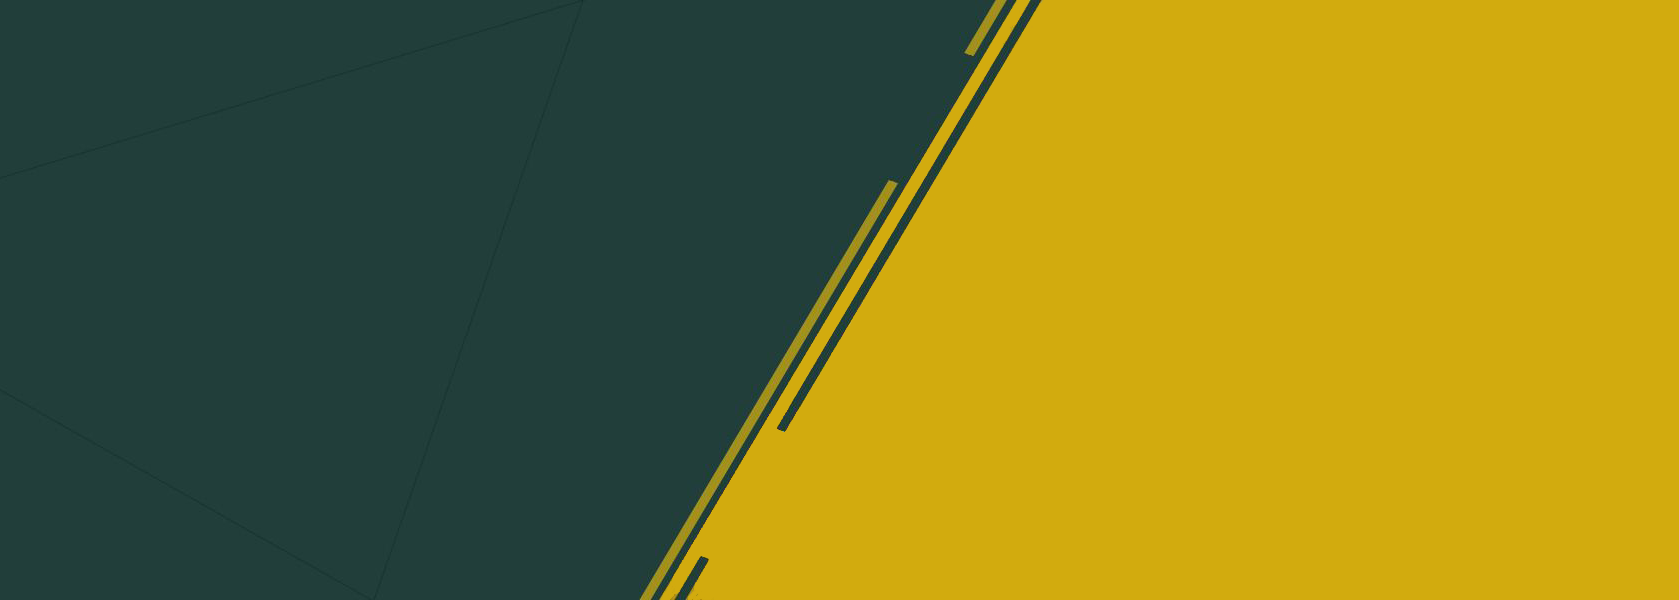
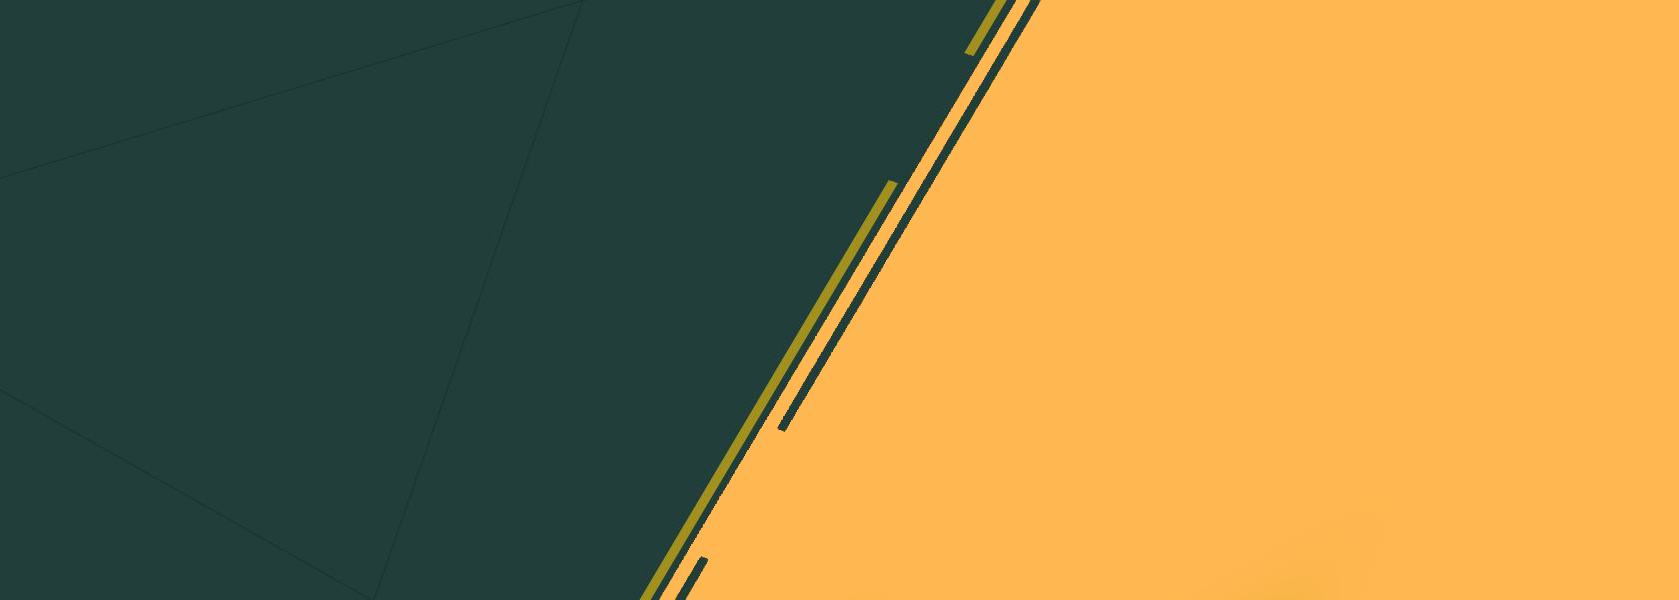
Minor change to index page, edit background image - MinHTHD

diff --git a/css/style.css b/css/style.css
@@ -3,7 +3,7 @@
   margin-top: 2%;
 } */
 #home{
-  background: url("../images/background.png") no-repeat fixed center;
+  background: url("../images/background-ctsa.png") no-repeat fixed center;
   background-size: 100% 100%;
 }
 .row{
